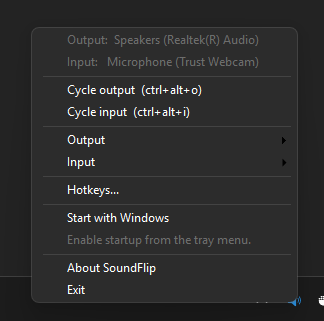
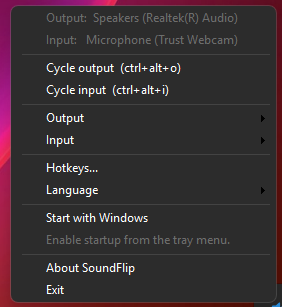
Screenshots: retake tray menu with Language item, add Language submenu shot

diff --git a/README.md b/README.md
@@ -77,6 +77,11 @@ and display language.
   <img src="screenshots/about.png" width="48%" alt="About SoundFlip dialog">
 </p>
 
+<p align="center">
+  <img src="screenshots/language.png" width="430"
+       alt="Language submenu — System default, English, Deutsch, Español, Français, Русский">
+</p>
+
 Your device picks and hotkeys are saved automatically to
 `%LocalAppData%\SoundFlip\soundflip.json` — safe to hand-edit if you like.
 
